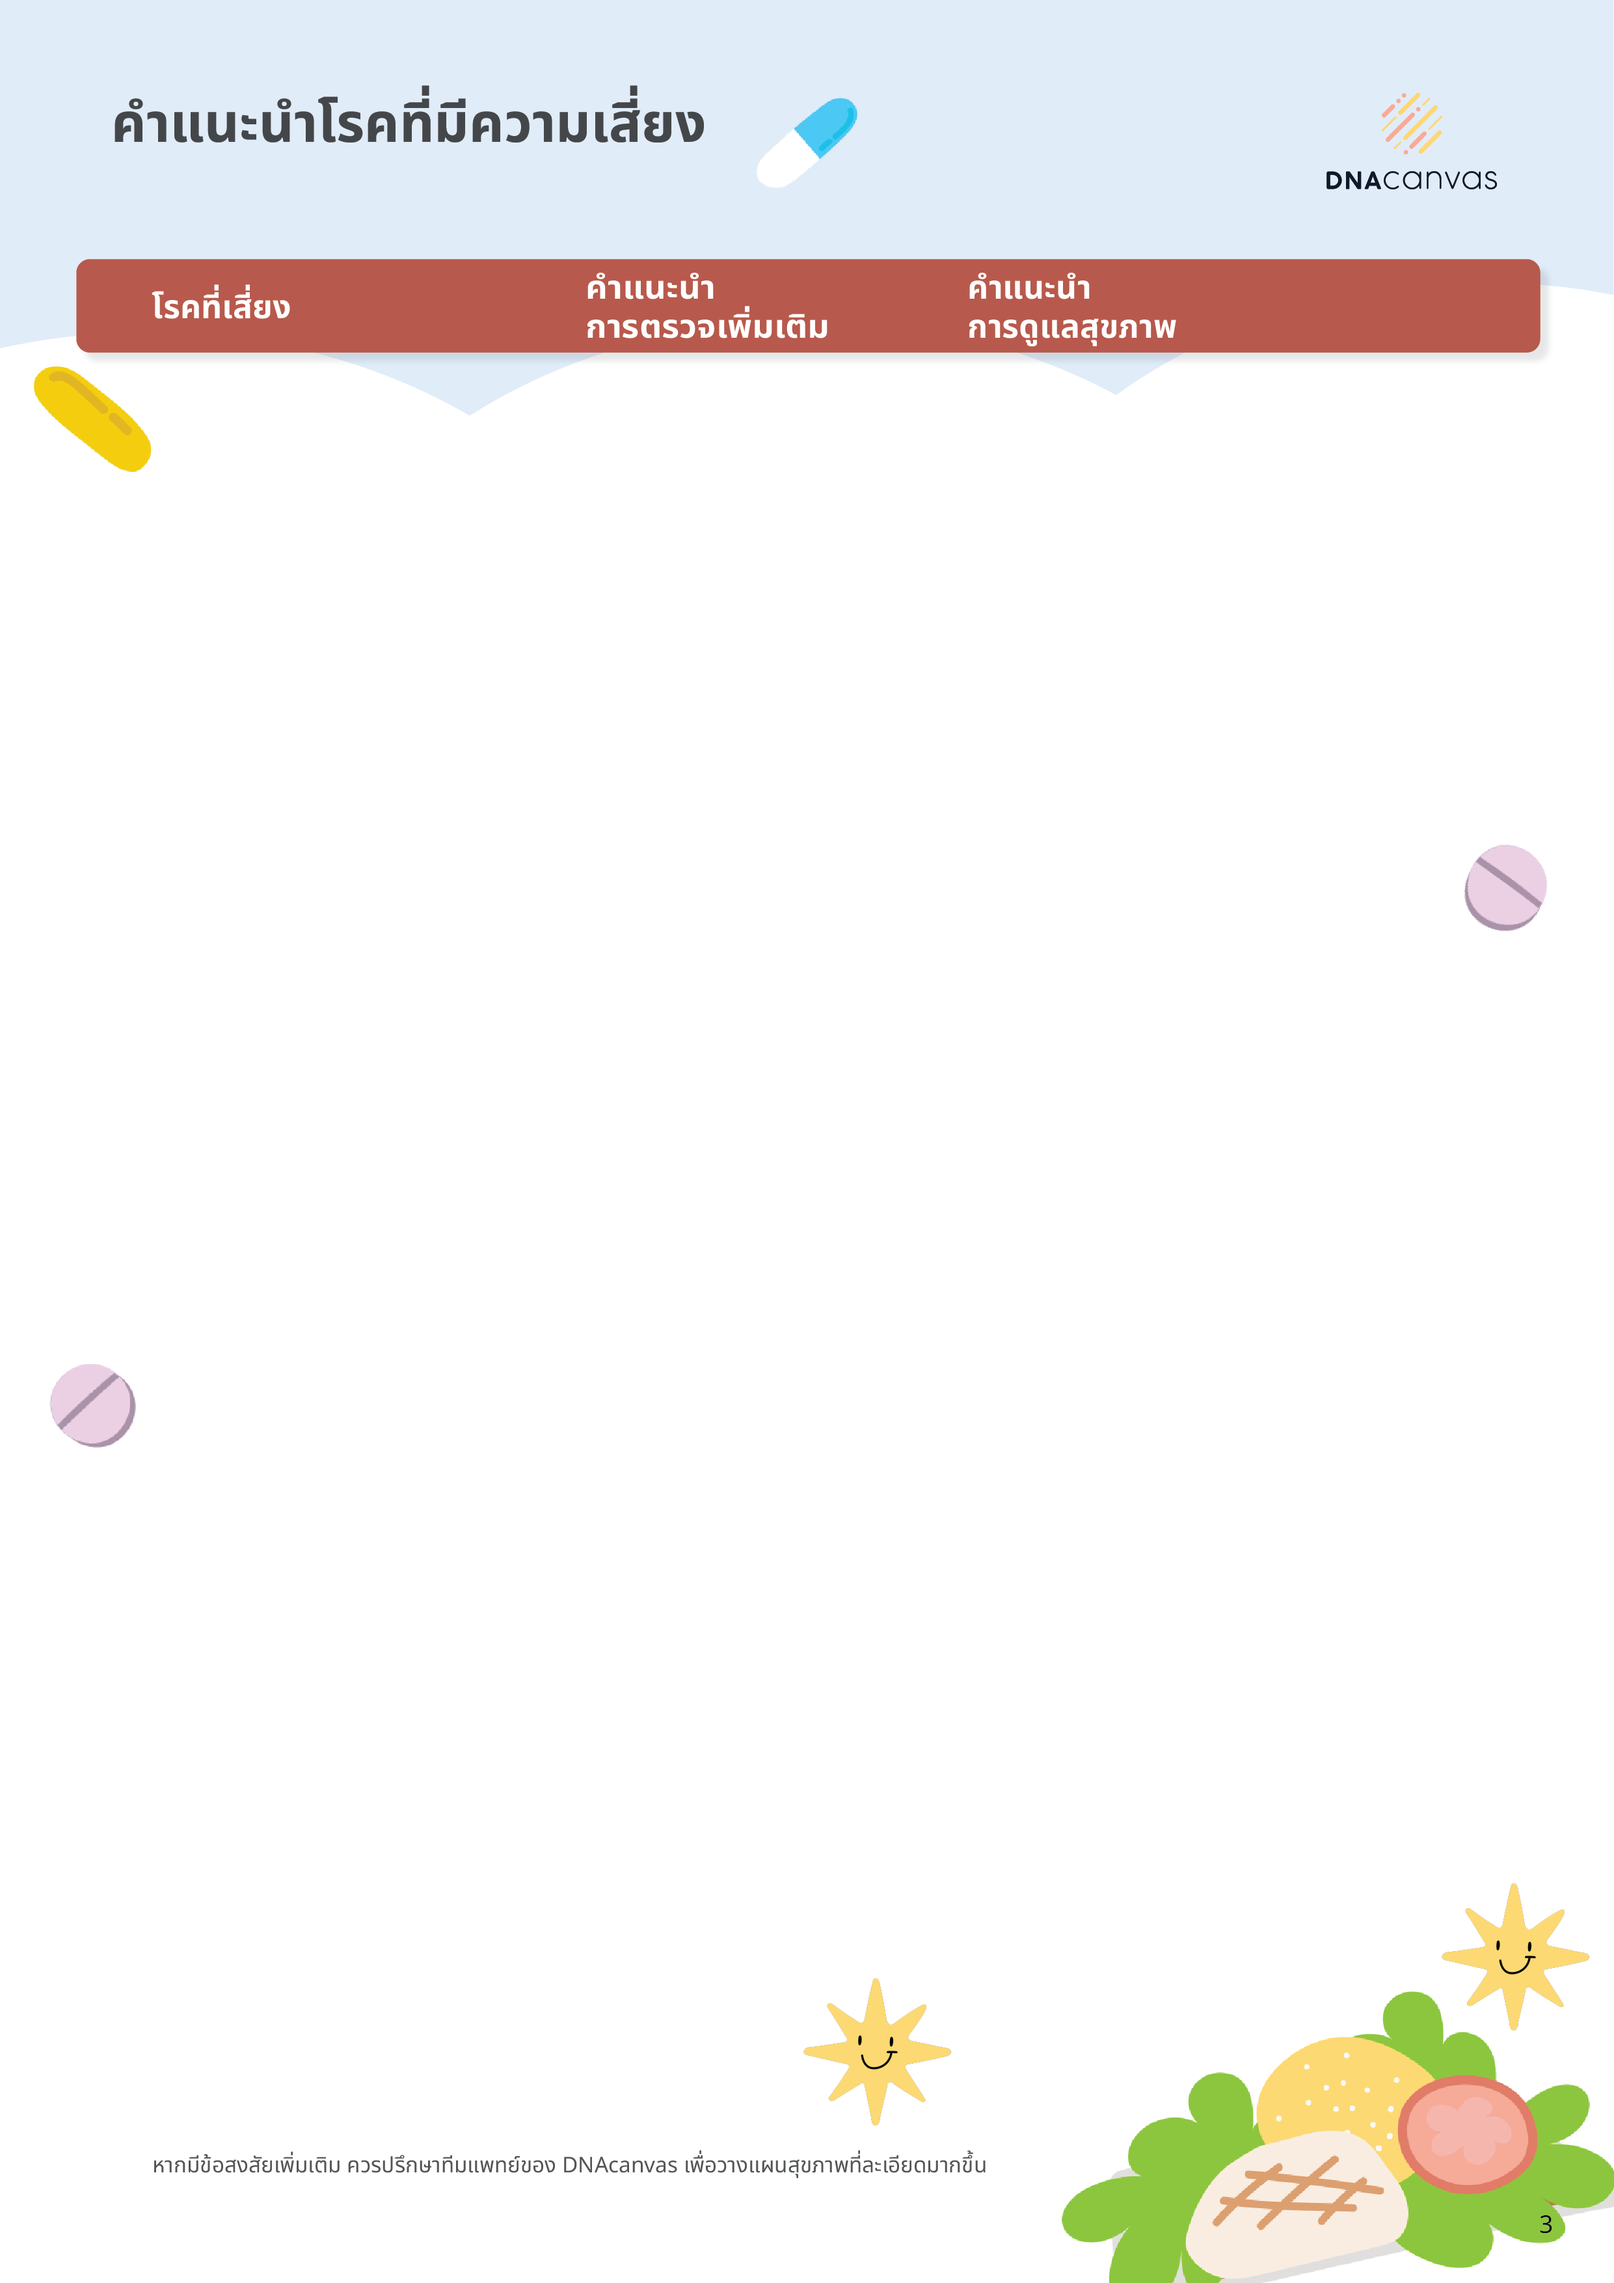
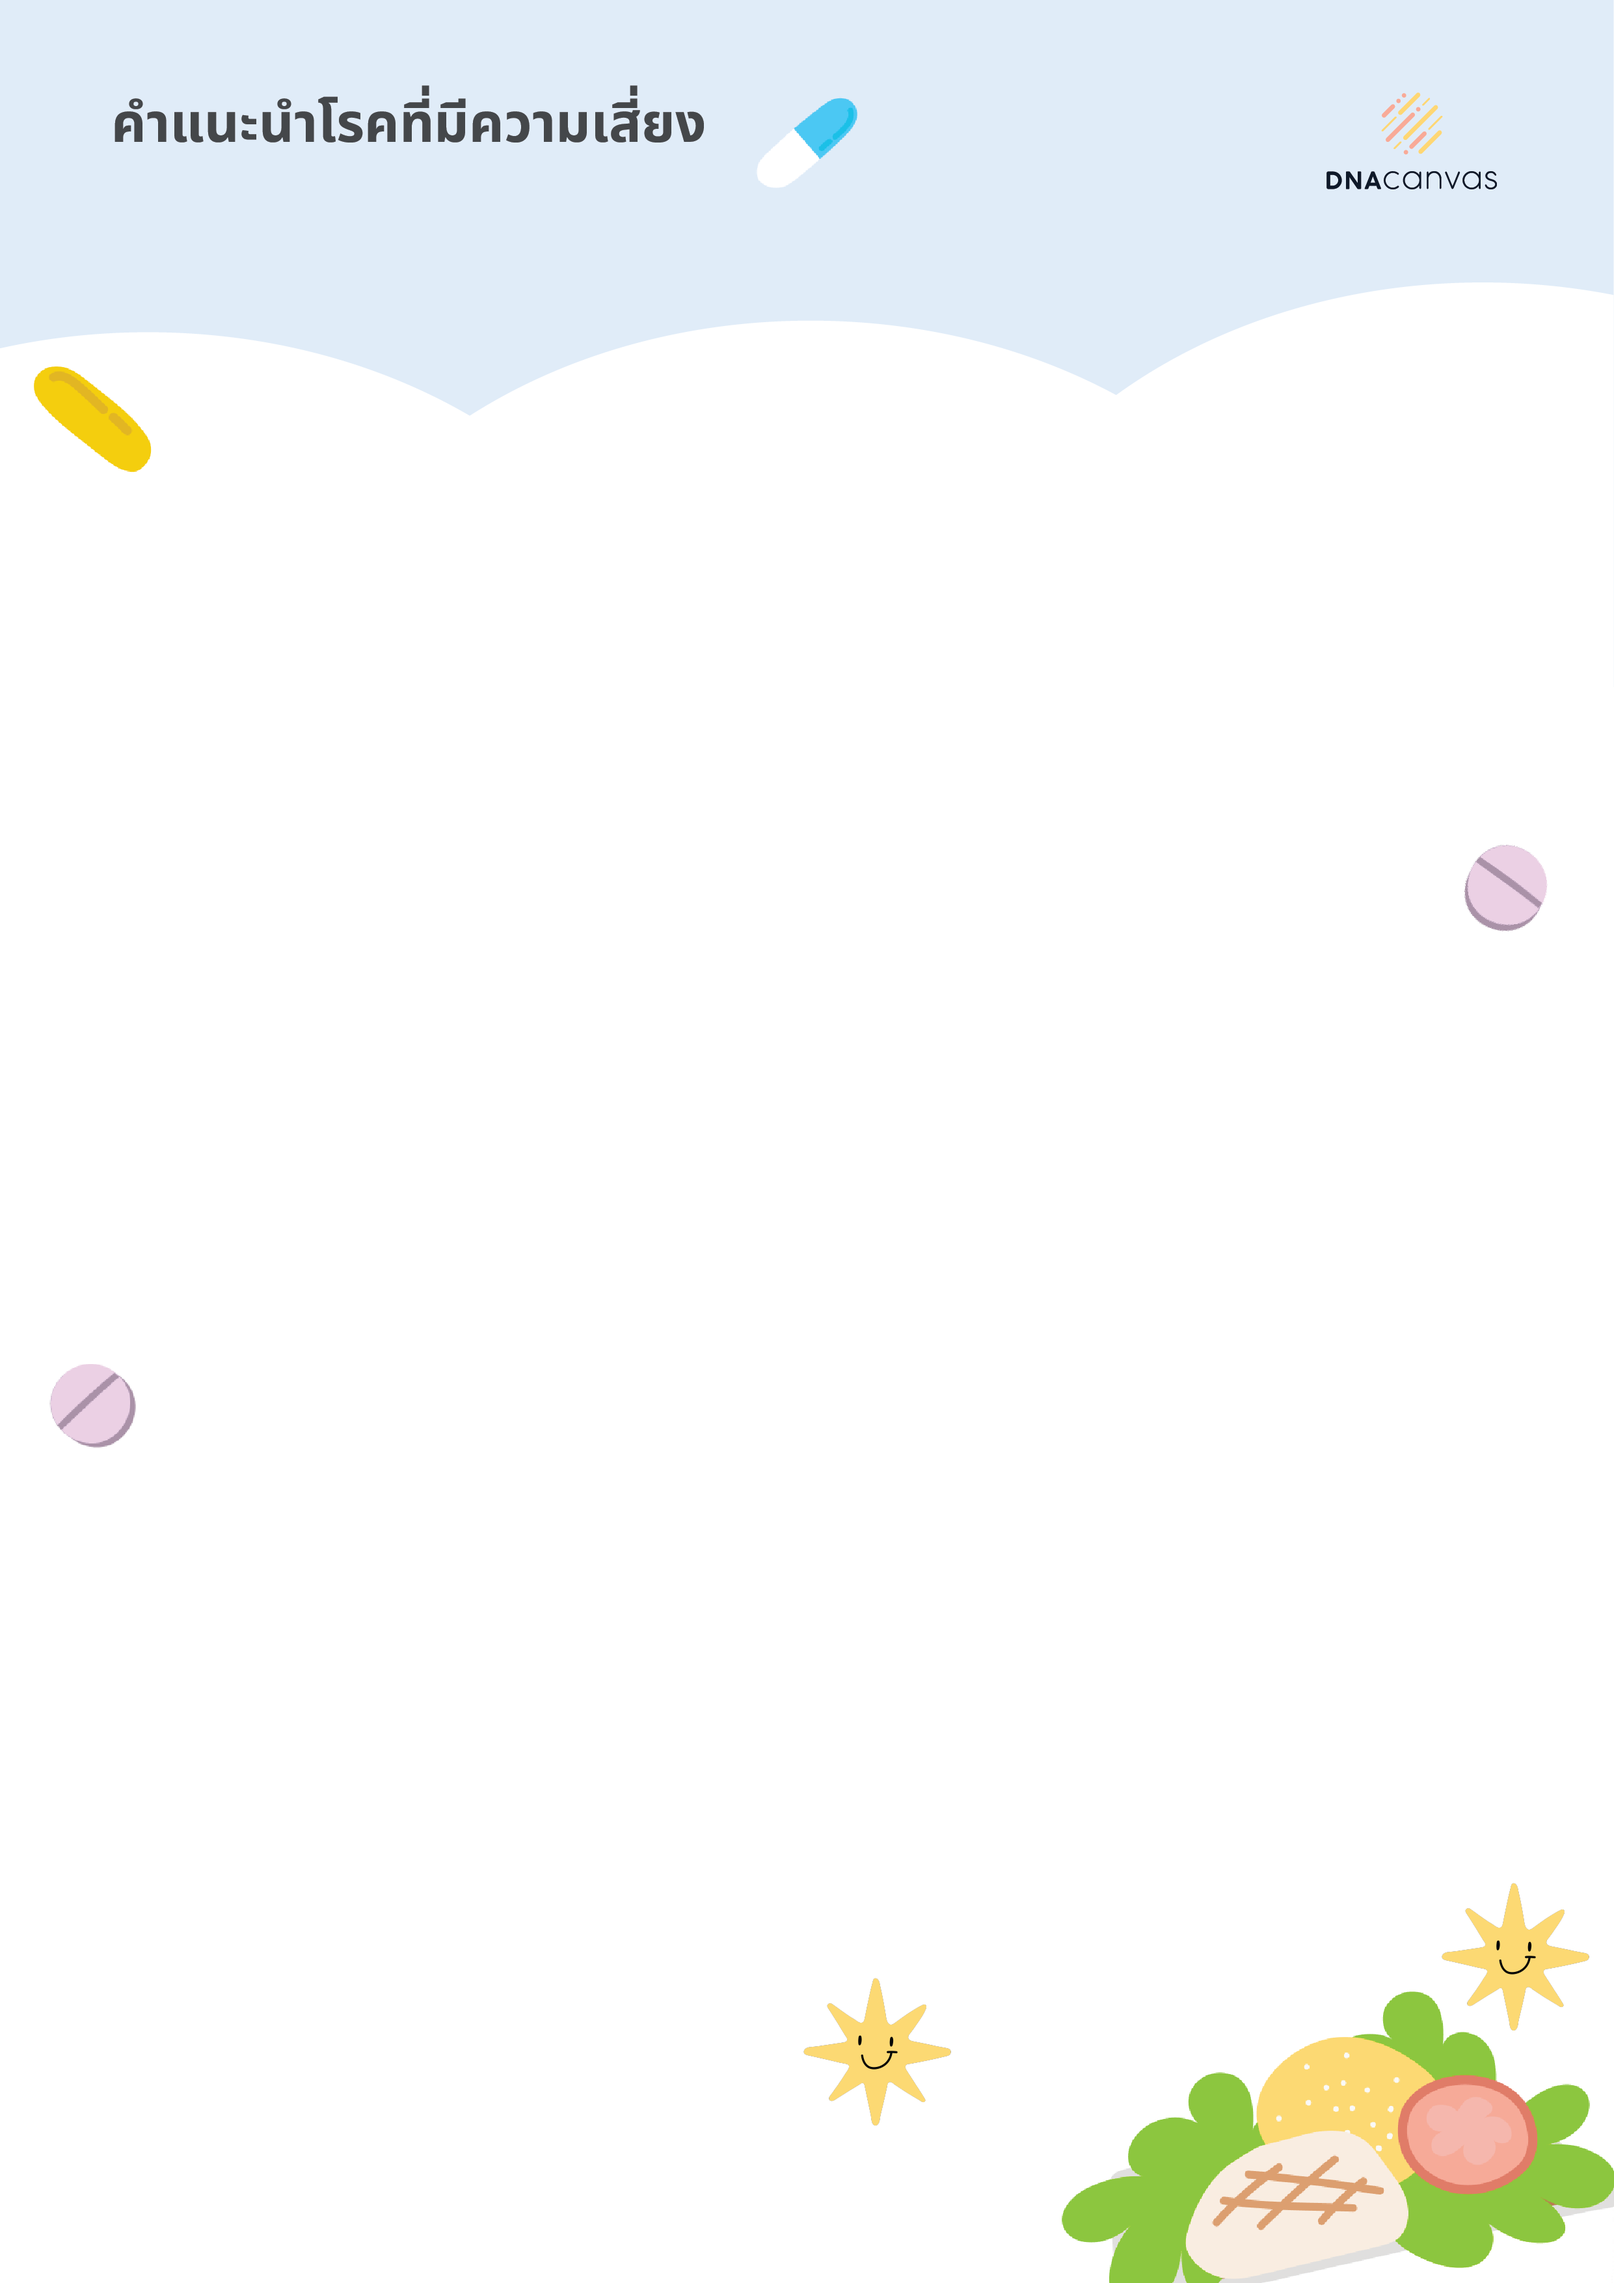
fix p3

Changed region(s): [[0.031, 0.0932, 0.9621, 0.1554]]

diff --git a/src/components/dcv-health-report/DcvReport.vue b/src/components/dcv-health-report/DcvReport.vue
@@ -126,7 +126,7 @@ function getGroupScoreByName() {
         });
     }
 
-    console.log(groupedData);
+    // console.log(groupedData);
     return groupedData;
 }
 
@@ -177,27 +177,75 @@ function transformGroupedDataToArray(groupedData: Record<string, any[]>): any[] 
             });
         }
     }
-
+    // console.log("trasefawdawweage");
+    // console.log(result);
     return result;
 }
 
 function calculatedRecommendPage() {
-    const chunkSize = 7;
+    const chunkSize = 6;
     const transformedArrayValue = transformedArray.value;
-    const chuckList:any[] = [];
+    // console.log("check");
+    // console.log(transformedArrayValue);
+    
+    var chuckList:any[] = [];
+    const pageList:any[] = [];
+
+    let counter = 0;
     // const chunks: DcvHealthLists[][] = [];
-    for (let i = 0; i < transformedArrayValue.length; i += chunkSize) {
-        const sliceChunks = transformedArrayValue.slice(i, i + chunkSize);
-        chuckList.push(sliceChunks);
-        // Perform further operations on the chunk as needed
+    for (let i = 0; i < transformedArrayValue.length; i += 1) {
+        const length = transformedArrayValue[i].data.length;
+        let last = 0;
+        let completeFlag = false
+        while (!completeFlag) {
+            if (counter+length-last < chunkSize) {
+                const slicedList = transformedArrayValue[i].data.slice(last, length);
+                chuckList.push({...transformedArrayValue[i],data: slicedList});
+                completeFlag = true
+                counter = (counter + length -last) % chunkSize
+            } else if (counter+length >= chunkSize ) {
+                const slicedList = transformedArrayValue[i].data.slice(0, chunkSize-counter);// = length-(counter+length-chunkSize)
+                chuckList.push({...transformedArrayValue[i],data: slicedList});
+                if (chunkSize-counter == length) {
+                    completeFlag = true
+                }
+                last = chunkSize-counter
+                counter = (counter + chunkSize-counter )%chunkSize
+            } 
+            // console.log("subchunki chunki chunky");
+            // console.log(chuckList);
+            if (counter == 0 ) {
+                pageList.push(chuckList)
+                chuckList = [];
+            }
+        }
     }
-    chunks.value = chuckList;
+    if (counter != 0) {
+            pageList.push(chuckList)
+            chuckList = [];
+        }
+    chunks.value = pageList;
+    console.log("chunki chunki chunky");
     console.log(chunks.value);
-    // for (let i = 0; i < transformedArrayValue.length; i += chunkSize) {
-    //     console.log(transformedArray.value[i]);
-    //     // const chunk = transformedArray[i].data[i].slice(i, i + chunkSize);
-    //     // chunks.value.push(chunk);
-    // }
+
+
+
+
+
+//     // const chunks: DcvHealthLists[][] = [];
+//     for (let i = 0; i < transformedArrayValue.length; i += chunkSize) {
+//         const sliceChunks = transformedArrayValue.slice(i, i + chunkSize);
+//         chuckList.push(sliceChunks);
+//         // Perform further operations on the chunk as needed
+//     }
+//     chunks.value = chuckList;
+//     console.log("chunki chunki chunky");
+//     console.log(chunks.value);
+//     // for (let i = 0; i < transformedArrayValue.length; i += chunkSize) {
+//     //     console.log(transformedArray.value[i]);
+//     //     // const chunk = transformedArray[i].data[i].slice(i, i + chunkSize);
+//     //     // chunks.value.push(chunk);
+//     // }
 }
 
 </script>

diff --git a/src/components/dcv-health-report/cards/RecommandCardComponet.vue b/src/components/dcv-health-report/cards/RecommandCardComponet.vue
@@ -1,19 +1,20 @@
 <template>
     <div class="flex flex-row flex-wrap pl-11 pt-1 h-full ">
-        <p class="font-notoSansThai font-bold text-black text-small_long pl-8 pt-1">{{ groupName }}</p>
-        <div class="grid grid-rows-[auto,1fr,auto] w-[44rem] pt-[0.3rem]">
+        <p class="font-notoSansThai text-gray-600 font-bold mr-auto pl-8 pt-1">{{ groupName }}</p>
+        <div class="grid grid-rows-[auto,1fr,auto] w-[44rem] pt-[0.3rem] pb-2">
             <!-- start here -->
             <div class="drop-shadow-[0_4px_4px_rgba(0,0,0,0.5)] ring-1 ring-gray-900/5 mx-auto rounded-lg w-full bg-white">
-                <div class="bg-red-600 w-full h-auto p-1 rounded-t-lg"></div>
-                <div class="pt-5 pl-2 shadow-xl ring-1 ring-gray-900/5 mx-auto  rounded-lg">
+                <div class="bg-dcv-high w-full h-auto p-1 rounded-t-lg"></div>
+                <div class="pt-5 pb-5 pl-2 shadow-xl ring-1 ring-gray-900/5 mx-auto  rounded-lg">
                     <div v-for="(item, index) in list">
                         <div class="grid grid-cols-10 w-auto">
-                            <p class="font-notoSansThai text-[10px] text-gray-600 text-justify  col-span-2 px-4 font-bold whitespace-pre-line"> {{ item.name.replace(" (","\n(") }} </p>
+                            <p class="font-notoSansThai text-[10px] text-gray-600 text-left col-span-2 px-4 font-bold whitespace-pre-line"> {{ item.name.replace(" (","\n(") }} </p>
                             <p class="font-notoSansThai text-[10px] text-gray-600 text-right  col-span-1 px-4">{{ setScoreString(item.score) }}</p>
-                            <p class="font-notoSansThai text-[10px] text-gray-600 text-justify  col-span-3 px-4">{{ item.checkup }}</p>
-                            <div class="font-notoSansThai text-[10px] text-gray-600 text-justify col-span-4 px-4 flex-col">
-                                <p class="">{{ item.risk_reduction }}</p>
-                                <p class="text-gray-600 font-bold">อาหารเสริมที่แนะนำ: </p>
+                            <p class="font-notoSansThai text-[10px] text-gray-600 text-left  col-span-3 px-4" v-if="item.checkup">{{ item.checkup }}</p>
+                            <p class="font-notoSansThai text-[10px] text-gray-600 text-left  col-span-3 px-4" v-if="!item.checkup">รับการตรวจตามปรกติ</p>
+                            <div class="font-notoSansThai text-[10px] text-gray-600 text-left col-span-4 pl-2 pr-7 flex-col whitespace-pre-line">
+                                <p class="">{{ item.risk_reduction.replace(" •","\n•")  }}</p>
+                                <p class="text-gray-600 font-bold" v-if="item.supplement">อาหารเสริมที่แนะนำ: </p>
                                 <!-- add new item -->
                                 <p class="">{{ item.supplement }}</p>
                             </div>

diff --git a/src/components/dcv-health-report/HealthRiskRecommend.vue b/src/components/dcv-health-report/HealthRiskRecommend.vue
@@ -1,9 +1,16 @@
 <template>
     <div class="custom-page-size-a4">
-        <div :class="['w-full h-full bg-no-repeat bg-cover m-0 pt-[11.5rem]', background]">
+        <div :class="['w-full h-full bg-no-repeat bg-cover m-0 pt-[8em]', background]">
+            <div class="relative drop-shadow-[0_4px_4px_rgba(0,0,0,0.2)] 
+                ring-1 ring-gray-900/5 mx-auto rounded-lg w-[44rem] bg-dcv-high text-white font-notoSansThai font-semibold leading-4 grid grid-cols-10 py-2">
+                <p class="col-span-3 px-6 py-2">โรคที่เสี่ยง</p>
+                <p class="col-span-3 px-5">คำแนะนำ<br>การตรวจเพิ่มเติม</p>
+                <p class="col-span-4 px-3">คำแนะนำ<br>การดูแลสุขภาพ</p>
+            </div>
             <div class="relative" v-for="(item) in data">
                 <RecommandCardComponet class="padd" :group-name="findGroupName(item.group)" :list="item.data"></RecommandCardComponet>
             </div>
+            <p class="font-notoSansThai text-[10px] text-gray-500 ml-14 mt-1"><u class="text-gray-500">หมายเหตุ</u> หากมีข้อสงสัยเพิมเติม ควรปรึกษาทีมแพทย์ของ DNAcanvas เพื่อวางแผนสุขภาพที่ละเอียดมากขึ้น</p>
         </div>
     </div>
 </template>
@@ -16,6 +23,9 @@ const props = defineProps({
     background: { type: String },
     recommandData: { type: Array<[]> }
 })
+// console.log("testtttt")
+// console.log(props.recommandData)
+
 const groupName = ref([
     {
         group: 'brain',
@@ -31,7 +41,7 @@ const groupName = ref([
     },
     {
         group: 'chest_abdo',
-        name: 'กลุ่มโรคปอดและท้อง',
+        name: 'กลุ่มโรคปอดและช่องท้อง',
     },
     {
         group: 'infectious',
@@ -53,6 +63,7 @@ const groupName = ref([
 
 onUpdated(() => {
     data.value = props.recommandData;
+    console.log("DATA VALUE");
     console.log(data.value);
 })
 

diff --git a/src/components/dcv-health-report/GroupHealthRisk.vue b/src/components/dcv-health-report/GroupHealthRisk.vue
@@ -59,7 +59,7 @@ const groupName = ref([
     },
     {
         group: 'chest_abdo',
-        name: 'กลุ่มโรคปอดและท้อง',
+        name: 'กลุ่มโรคปอดและช่องท้อง',
     },
     {
         group: 'infectious',
